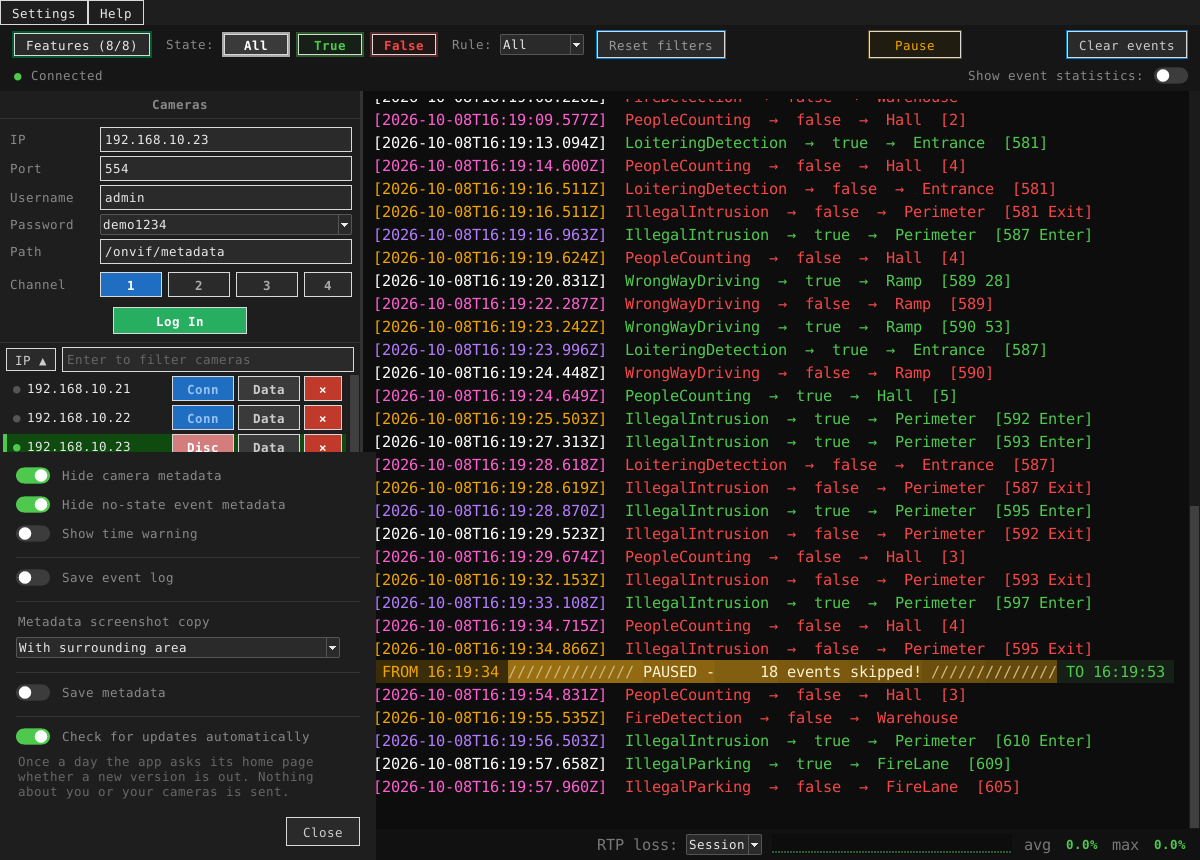
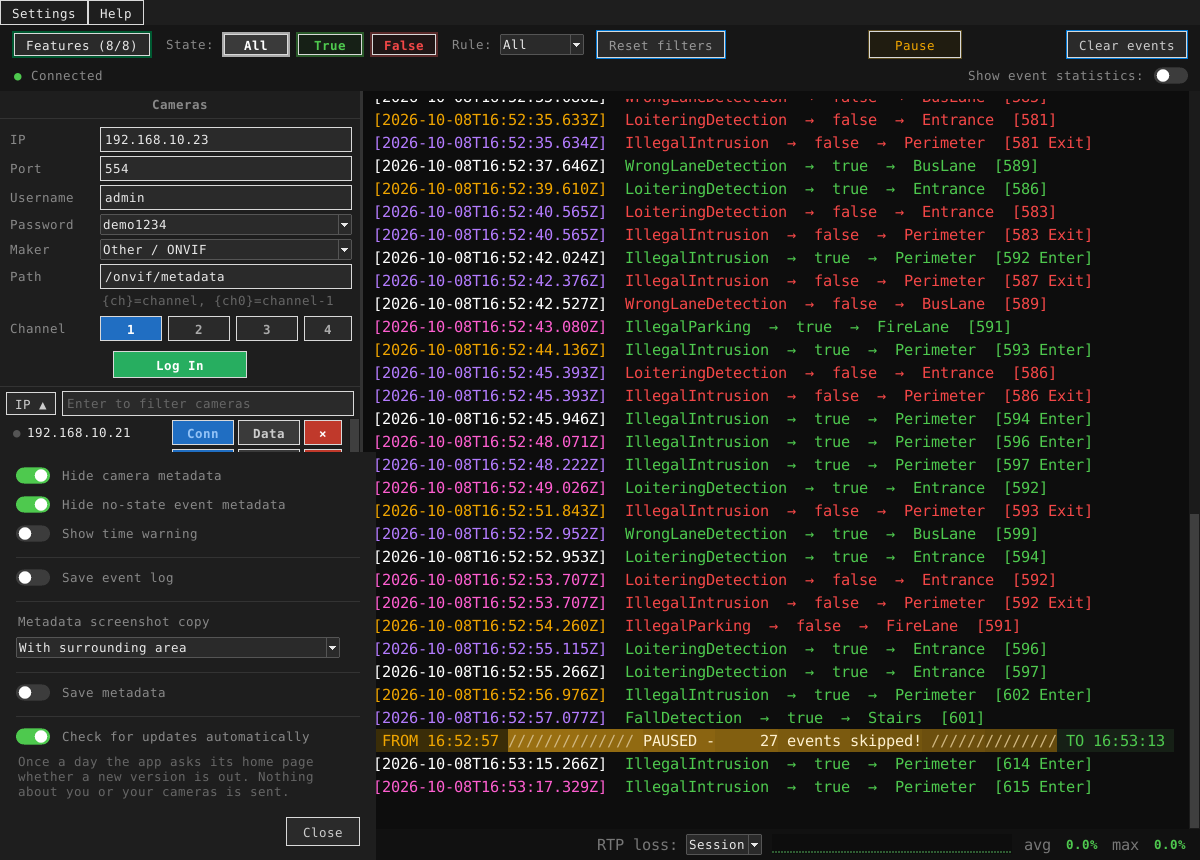
Version 1.0.0; camera makers; new screenshots

Changed region(s): [[0.0, 0.1209, 0.9558, 0.9372], [0.0, 0.2721, 0.0308, 0.3326], [0.9867, 0.5744, 1.0, 0.6047]]

diff --git a/index.html b/index.html
@@ -186,13 +186,15 @@
       <li><b>Event statistics:</b> True / False / total per feature, Enter / Exit counts, average rates, the last state and the time since it.</li>
       <li><b>Health charts:</b> RTP packet loss over the last minutes or the whole session, and the app's own memory use.</li>
       <li><b>Saving:</b> event logs and raw metadata per camera, each switched on only if you want it.</li>
+      <li><b>Camera makers:</b> the metadata path filled in for Axis, Bosch, Dahua, Hanwha Vision and Hikvision cameras; any other ONVIF camera with its own path.</li>
       <li><b>Steady:</b> reconnects by itself when the stream drops; cameras, passwords and channels 1-4 are remembered.</li>
       <li><b>Portable and up to date:</b> no installer; <b>Update now</b> installs a new version in place.</li>
     </ul>
     <h3 class="sub">Getting started</h3>
     <ol class="steps note">
-      <li>Enter the camera's IP address, user name and password, and the RTSP path of its metadata
-        stream, then click <b>Log In</b>.</li>
+      <li>Enter the camera's IP address, user name and password. Choose its <b>Maker</b> (Axis, Bosch,
+        Dahua, Hanwha Vision, Hikvision) to fill in the path of its metadata stream, or choose
+        <b>Other / ONVIF</b> and enter the path from the camera's ONVIF settings. Click <b>Log In</b>.</li>
       <li>Click <b>Conn</b> next to the camera. Events appear as the camera sends them.</li>
       <li>Use <b>Features</b>, <b>State</b> and <b>Rule</b> to narrow the log, and <b>Show event statistics</b>
         for the counts.</li>
@@ -237,7 +239,7 @@
         in its folder.</li>
     </ul>
     <h3 class="sub">Updating</h3>
-    <p class="note" style="margin:0">From version 1.5.0 the app tells you when a new version is out:
+    <p class="note" style="margin:0">The app tells you when a new version is out:
       by itself once a day (Settings &gt; General &gt; <b>Check for updates automatically</b>, on unless you
       turn it off), or at once with <b>Help &gt; Check for updates</b>. Click <b>Update now</b>: it downloads
       the new version, checks it, restarts and reconnects, and keeps your cameras, settings and saved data.
@@ -267,7 +269,7 @@
           </select>
         </label>
         <label><span>App version <span class="hint-opt">(optional)</span></span>
-          <input name="version" placeholder="e.g. 1.5.0" maxlength="60">
+          <input name="version" placeholder="e.g. 1.0.0" maxlength="60">
         </label>
       </div>
       <label>Message

diff --git a/README.md b/README.md
@@ -30,6 +30,7 @@ the rule that fired, and the details you choose (object ID, Enter / Exit, speed,
 - **Event statistics** per feature, with average rates and Enter / Exit counts.
 - **RTP packet loss** and memory charts for long sessions.
 - Saves event logs and metadata per camera, if you want.
+- Metadata path filled in for Axis, Bosch, Dahua, Hanwha Vision and Hikvision cameras; any ONVIF camera works.
 - Reconnects by itself; updates itself (Help > Check for updates > Update now).
 
 ## Get it
